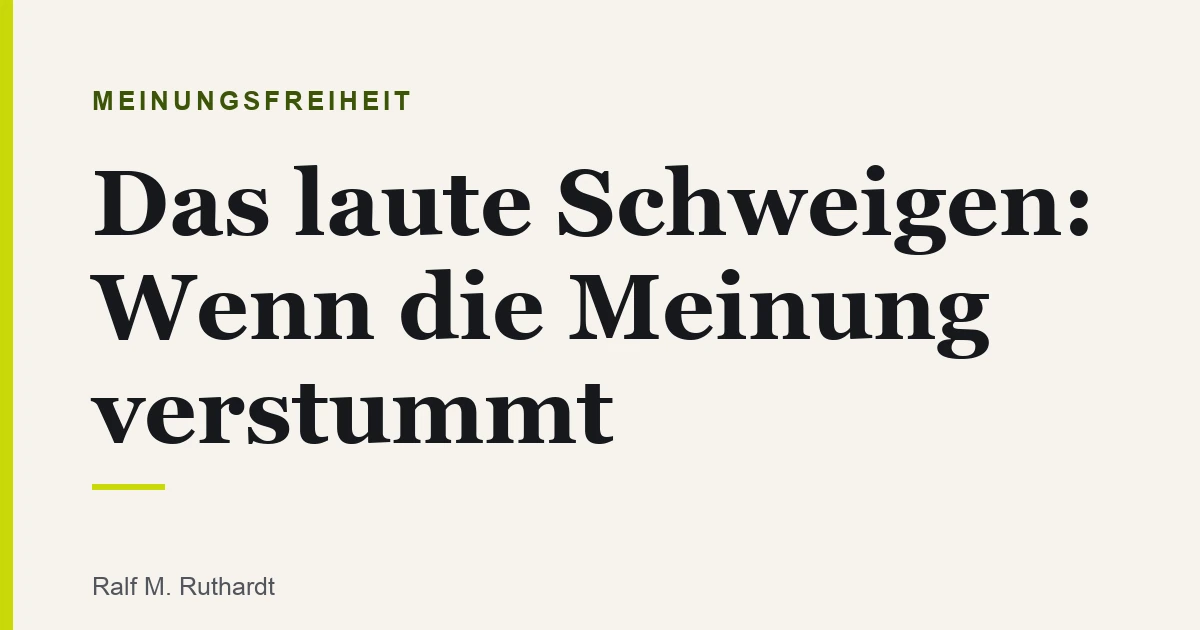
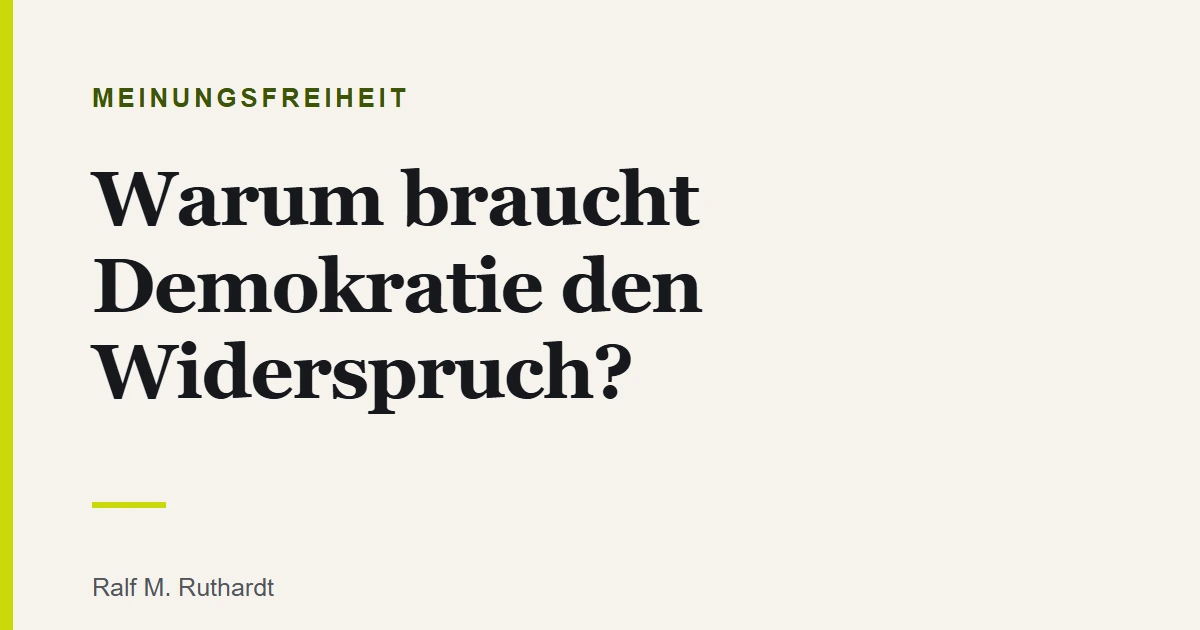
Alte Titelbild-URLs der korrigierten Artikel ersetzen

diff --git a/HISTORIE.md b/HISTORIE.md
@@ -1,5 +1,12 @@
 # Historie
 
+## 2026-09-10 — Alte Bilddateien der Artikel 5 und 7 überschrieben (Skill 50, Modus A)
+
+- **Ausgeführt von:** Ela Plaisier (@Ela-Plaisier, mp@twentyseconds.de)
+- **Änderungswunsch:** Auch über die bisherigen, im Browser gespeicherten Artikelkarten müssen die korrigierten Titelbilder erscheinen.
+- **Geänderte Dateien:** `magazin/bilder/lautes-schweigen-cover.webp` und `magazin/bilder/vorlesen-bei-demenz-cover.webp`.
+- **Ergebnis:** Die alten Bild-URLs liefern nun ebenfalls die korrigierten Titelbilder; damit verschwinden die falschen eingebrannten Überschriften auch aus älteren Seitenständen.
+
 ## 2026-09-10 — Artikel auf heutiges Datum gesetzt und hervorgehoben (Skill 50, Modus A)
 
 - **Ausgeführt von:** Ela Plaisier (@Ela-Plaisier, mp@twentyseconds.de)
